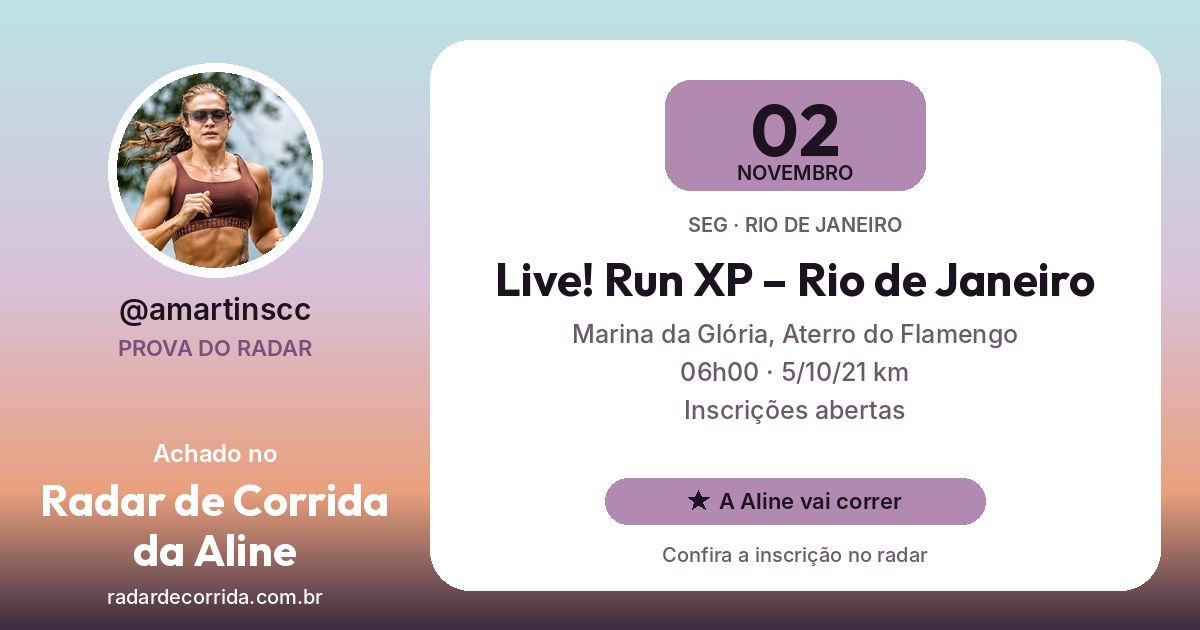
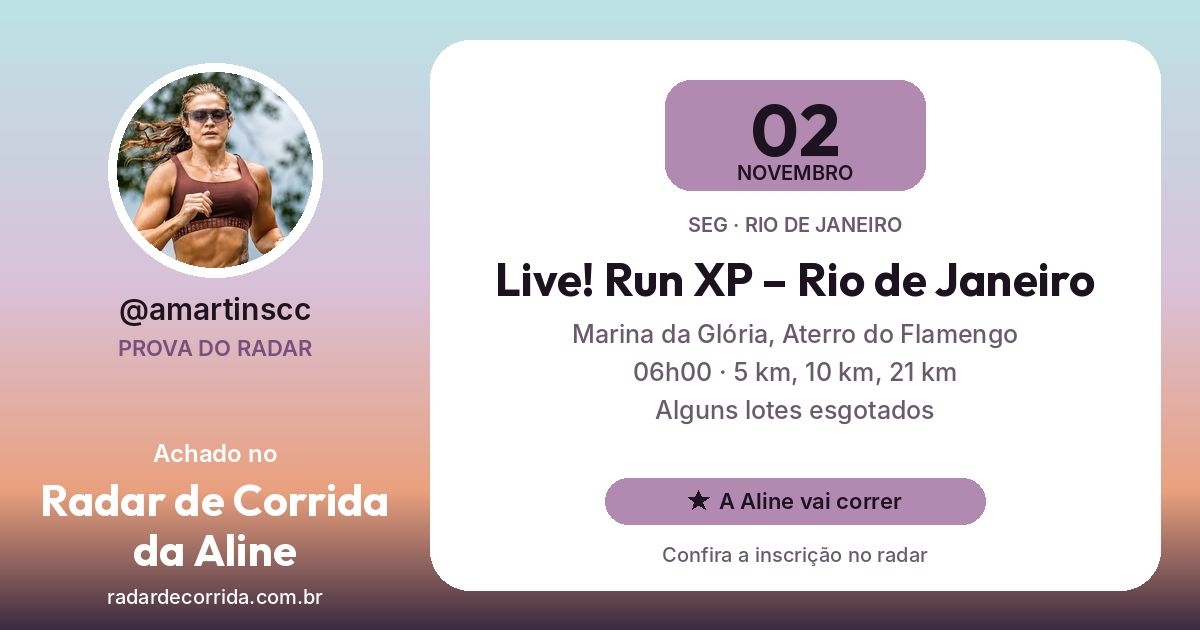
Live! Run XP Rio: remove duplicata com data errada (15/11) e marca últimas vagas
Claude-Session: https://claude.ai/code/session_01ESnEgiXBf5NoXCXEVPj42v

Changed region(s): [[0.5242, 0.6333, 0.8017, 0.6635], [0.5242, 0.573, 0.8017, 0.6032]]

diff --git a/prova/live-run-xp-rio-de-janeiro-2026-11-02/index.html b/prova/live-run-xp-rio-de-janeiro-2026-11-02/index.html
@@ -4,14 +4,14 @@
 <meta charset="utf-8">
 <meta name="viewport" content="width=device-width,initial-scale=1">
 <title>Live! Run XP – Rio de Janeiro – 2 de novembro de 2026, Rio de Janeiro · Radar de Corrida</title>
-<meta name="description" content="02 de novembro de 2026 · Marina da Glória, Aterro do Flamengo · 5/10/21 km · Inscrições abertas. A Aline vai correr! Achado no Radar de Corrida da Aline.">
+<meta name="description" content="02 de novembro de 2026 · Marina da Glória, Aterro do Flamengo · 5 km, 10 km, 21 km · Alguns lotes esgotados. A Aline vai correr! Achado no Radar de Corrida da Aline.">
 <meta name="robots" content="index,follow,max-image-preview:large">
 <link rel="canonical" href="https://radardecorrida.com.br/prova/live-run-xp-rio-de-janeiro-2026-11-02/">
 <meta property="og:type" content="website">
 <meta property="og:locale" content="pt_BR">
 <meta property="og:site_name" content="Radar de Corrida da Aline">
 <meta property="og:title" content="Live! Run XP – Rio de Janeiro">
-<meta property="og:description" content="02 de novembro de 2026 · Marina da Glória, Aterro do Flamengo · 5/10/21 km · Inscrições abertas. A Aline vai correr! Achado no Radar de Corrida da Aline.">
+<meta property="og:description" content="02 de novembro de 2026 · Marina da Glória, Aterro do Flamengo · 5 km, 10 km, 21 km · Alguns lotes esgotados. A Aline vai correr! Achado no Radar de Corrida da Aline.">
 <meta property="og:url" content="https://radardecorrida.com.br/prova/live-run-xp-rio-de-janeiro-2026-11-02/">
 <meta property="og:image" content="https://radardecorrida.com.br/og/prova-live-run-xp-rio-de-janeiro-2026-11-02.jpg">
 <meta property="og:image:secure_url" content="https://radardecorrida.com.br/og/prova-live-run-xp-rio-de-janeiro-2026-11-02.jpg">
@@ -23,7 +23,7 @@
 <meta name="theme-color" content="#BBE3E5">
 <link rel="icon" type="image/png" href="/favicon.png">
 <style>*{box-sizing:border-box}body{margin:0;font-family:"Plus Jakarta Sans",system-ui,-apple-system,"Segoe UI",sans-serif;background:#F6F0F6 linear-gradient(180deg,#BBE3E5 0,#D9C1D9 360px,#F6F0F6 720px) no-repeat;color:#1D1220;padding:24px 16px 40px}.c{max-width:560px;margin:0 auto;display:flex;flex-direction:column;gap:14px}img{width:100%;height:auto;border-radius:18px;display:block}h1{font:800 28px/1.1 system-ui,sans-serif;margin:0}p{margin:0;color:#6B5A6E}a.b{display:block;text-align:center;padding:13px 18px;border-radius:999px;text-decoration:none;font-weight:700}a.p{background:#B28AB1;color:#1D1220}a.s{background:#fff;color:#7A4E7D;border:1.5px solid #B28AB1}.x{text-align:center;font-size:14px}.x a{color:#7A4E7D}.n{background:#FFF0DC;color:#9A5B00;padding:10px 14px;border-radius:14px;font-weight:600}</style>
-<script type="application/ld+json">{"@context": "https://schema.org", "@type": "SportsEvent", "name": "Live! Run XP – Rio de Janeiro", "startDate": "2026-11-02T06:00:00-03:00", "eventAttendanceMode": "https://schema.org/OfflineEventAttendanceMode", "eventStatus": "https://schema.org/EventScheduled", "sport": "Corrida de rua", "location": {"@type": "Place", "name": "Marina da Glória, Aterro do Flamengo", "address": {"@type": "PostalAddress", "addressRegion": "RJ", "addressCountry": "BR", "addressLocality": "Rio de Janeiro", "streetAddress": "Marina da Glória, Aterro do Flamengo"}}, "image": ["https://radardecorrida.com.br/og/prova-live-run-xp-rio-de-janeiro-2026-11-02.jpg"], "description": "02 de novembro de 2026 · Marina da Glória, Aterro do Flamengo · 5/10/21 km · Inscrições abertas. A Aline vai correr! Achado no Radar de Corrida da Aline.", "url": "https://radardecorrida.com.br/prova/live-run-xp-rio-de-janeiro-2026-11-02/", "offers": {"@type": "Offer", "url": "https://www.liverun.com.br/etapa/live21k-rio-de-janeiro-2026", "availability": "https://schema.org/InStock"}}</script>
+<script type="application/ld+json">{"@context": "https://schema.org", "@type": "SportsEvent", "name": "Live! Run XP – Rio de Janeiro", "startDate": "2026-11-02T06:00:00-03:00", "eventAttendanceMode": "https://schema.org/OfflineEventAttendanceMode", "eventStatus": "https://schema.org/EventScheduled", "sport": "Corrida de rua", "location": {"@type": "Place", "name": "Marina da Glória, Aterro do Flamengo", "address": {"@type": "PostalAddress", "addressRegion": "RJ", "addressCountry": "BR", "addressLocality": "Rio de Janeiro", "streetAddress": "Marina da Glória, Aterro do Flamengo"}}, "image": ["https://radardecorrida.com.br/og/prova-live-run-xp-rio-de-janeiro-2026-11-02.jpg"], "description": "02 de novembro de 2026 · Marina da Glória, Aterro do Flamengo · 5 km, 10 km, 21 km · Alguns lotes esgotados. A Aline vai correr! Achado no Radar de Corrida da Aline.", "url": "https://radardecorrida.com.br/prova/live-run-xp-rio-de-janeiro-2026-11-02/", "offers": {"@type": "Offer", "url": "https://www.liverun.com.br/etapa/live21k-rio-de-janeiro-2026", "availability": "https://schema.org/InStock"}}</script>
 <script>if(/[?&]c=1(&|$)/.test(location.search))location.replace("/"+location.search+"#prova=live-run-xp-rio-de-janeiro-2026-11-02");</script>
 </head>
 <body>
@@ -31,7 +31,7 @@
 
 <img src="/og/prova-live-run-xp-rio-de-janeiro-2026-11-02.jpg" alt="Live! Run XP – Rio de Janeiro" width="1200" height="630">
 <h1>Live! Run XP – Rio de Janeiro</h1>
-<p>02 de novembro de 2026 · Marina da Glória, Aterro do Flamengo · 5/10/21 km · Inscrições abertas. A Aline vai correr! Achado no Radar de Corrida da Aline.</p>
+<p>02 de novembro de 2026 · Marina da Glória, Aterro do Flamengo · 5 km, 10 km, 21 km · Alguns lotes esgotados. A Aline vai correr! Achado no Radar de Corrida da Aline.</p>
 <a class="b p" href="/#prova=live-run-xp-rio-de-janeiro-2026-11-02">Ver no Radar de Corrida da Aline</a>
 <a class="b s" href="https://www.liverun.com.br/etapa/live21k-rio-de-janeiro-2026" target="_blank" rel="noopener">Ver inscrição</a>
 <p class="x"><a href="/calculadora-de-pace/">Calcule seu pace e a previsão de tempo para a prova</a></p>

diff --git a/prova/live-run-xp-rio-de-janeiro-live21k-2026-11-15/index.html b/prova/live-run-xp-rio-de-janeiro-live21k-2026-11-15/index.html
@@ -3,9 +3,9 @@
 <head>
 <meta charset="utf-8">
 <meta name="viewport" content="width=device-width,initial-scale=1">
-<title>Live! Run XP – Rio de Janeiro (Live21K) – 15 de novembro de 2026, Rio de Janeiro · Radar de Corrida</title>
+<title>Live! Run XP – Rio de Janeiro (Live21K) · Radar de Corrida</title>
 <meta name="description" content="15 de novembro de 2026 · Aterro do Flamengo · 5 km, 10 km, 21 km · Confira no site. Achado no Radar de Corrida da Aline.">
-<meta name="robots" content="index,follow,max-image-preview:large">
+<meta name="robots" content="noindex,follow">
 <link rel="canonical" href="https://radardecorrida.com.br/prova/live-run-xp-rio-de-janeiro-live21k-2026-11-15/">
 <meta property="og:type" content="website">
 <meta property="og:locale" content="pt_BR">
@@ -23,17 +23,17 @@
 <meta name="theme-color" content="#BBE3E5">
 <link rel="icon" type="image/png" href="/favicon.png">
 <style>*{box-sizing:border-box}body{margin:0;font-family:"Plus Jakarta Sans",system-ui,-apple-system,"Segoe UI",sans-serif;background:#F6F0F6 linear-gradient(180deg,#BBE3E5 0,#D9C1D9 360px,#F6F0F6 720px) no-repeat;color:#1D1220;padding:24px 16px 40px}.c{max-width:560px;margin:0 auto;display:flex;flex-direction:column;gap:14px}img{width:100%;height:auto;border-radius:18px;display:block}h1{font:800 28px/1.1 system-ui,sans-serif;margin:0}p{margin:0;color:#6B5A6E}a.b{display:block;text-align:center;padding:13px 18px;border-radius:999px;text-decoration:none;font-weight:700}a.p{background:#B28AB1;color:#1D1220}a.s{background:#fff;color:#7A4E7D;border:1.5px solid #B28AB1}.x{text-align:center;font-size:14px}.x a{color:#7A4E7D}.n{background:#FFF0DC;color:#9A5B00;padding:10px 14px;border-radius:14px;font-weight:600}</style>
-<script type="application/ld+json">{"@context": "https://schema.org", "@type": "SportsEvent", "name": "Live! Run XP – Rio de Janeiro (Live21K)", "startDate": "2026-11-15", "eventAttendanceMode": "https://schema.org/OfflineEventAttendanceMode", "eventStatus": "https://schema.org/EventScheduled", "sport": "Corrida de rua", "location": {"@type": "Place", "name": "Aterro do Flamengo", "address": {"@type": "PostalAddress", "addressRegion": "RJ", "addressCountry": "BR", "addressLocality": "Rio de Janeiro", "streetAddress": "Aterro do Flamengo"}}, "image": ["https://radardecorrida.com.br/og/prova-live-run-xp-rio-de-janeiro-live21k-2026-11-15.jpg"], "description": "15 de novembro de 2026 · Aterro do Flamengo · 5 km, 10 km, 21 km · Confira no site. Achado no Radar de Corrida da Aline.", "url": "https://radardecorrida.com.br/prova/live-run-xp-rio-de-janeiro-live21k-2026-11-15/", "offers": {"@type": "Offer", "url": "https://www.liverun.com.br/etapa/live21k-rio-de-janeiro-2026", "availability": "https://schema.org/InStock"}}</script>
-<script>if(/[?&]c=1(&|$)/.test(location.search))location.replace("/"+location.search+"#prova=live-run-xp-rio-de-janeiro-live21k-2026-11-15");</script>
+
+
 </head>
 <body>
 <main class="c">
-
+<p class="n">Essa prova já aconteceu ou saiu do radar.</p>
 <img src="/og/prova-live-run-xp-rio-de-janeiro-live21k-2026-11-15.jpg" alt="Live! Run XP – Rio de Janeiro (Live21K)" width="1200" height="630">
 <h1>Live! Run XP – Rio de Janeiro (Live21K)</h1>
 <p>15 de novembro de 2026 · Aterro do Flamengo · 5 km, 10 km, 21 km · Confira no site. Achado no Radar de Corrida da Aline.</p>
-<a class="b p" href="/#prova=live-run-xp-rio-de-janeiro-live21k-2026-11-15">Ver no Radar de Corrida da Aline</a>
-<a class="b s" href="https://www.liverun.com.br/etapa/live21k-rio-de-janeiro-2026" target="_blank" rel="noopener">Ver inscrição</a>
+<a class="b p" href="/#provas">Ver no Radar de Corrida da Aline</a>
+
 <p class="x"><a href="/calculadora-de-pace/">Calcule seu pace e a previsão de tempo para a prova</a></p>
 </main>
 </body>

diff --git a/index.html b/index.html
@@ -3273,8 +3273,8 @@ section h2{font:800 22px/1 var(--display);margin:8px 0 10px}
    "nome": "Live! Run XP – Rio de Janeiro",
    "local": "Marina da Glória, Aterro do Flamengo",
    "link": "https://www.liverun.com.br/etapa/live21k-rio-de-janeiro-2026",
-   "status": "aberta",
-   "distancias": "5/10/21 km",
+   "status": "parcial",
+   "distancias": "5 km, 10 km, 21 km",
    "aline": true,
    "hora": "06:00"
   },
@@ -6130,15 +6130,6 @@ section h2{font:800 22px/1 var(--display);margin:8px 0 10px}
    "distancias": "5 km",
    "valor": 85,
    "capa": "https://static.wixstatic.com/media/de786d_1e653d8d1b514755910a3776f9d8c786~mv2.jpg/v1/fill/w_320,h_320,al_c,q_80/de786d_1e653d8d1b514755910a3776f9d8c786~mv2.jpg"
-  },
-  {
-   "uf": "RJ",
-   "data": "2026-11-15",
-   "nome": "Live! Run XP – Rio de Janeiro (Live21K)",
-   "local": "Aterro do Flamengo",
-   "link": "https://www.liverun.com.br/etapa/live21k-rio-de-janeiro-2026",
-   "status": "confira",
-   "distancias": "5 km, 10 km, 21 km"
   },
   {
    "uf": "RJ",
